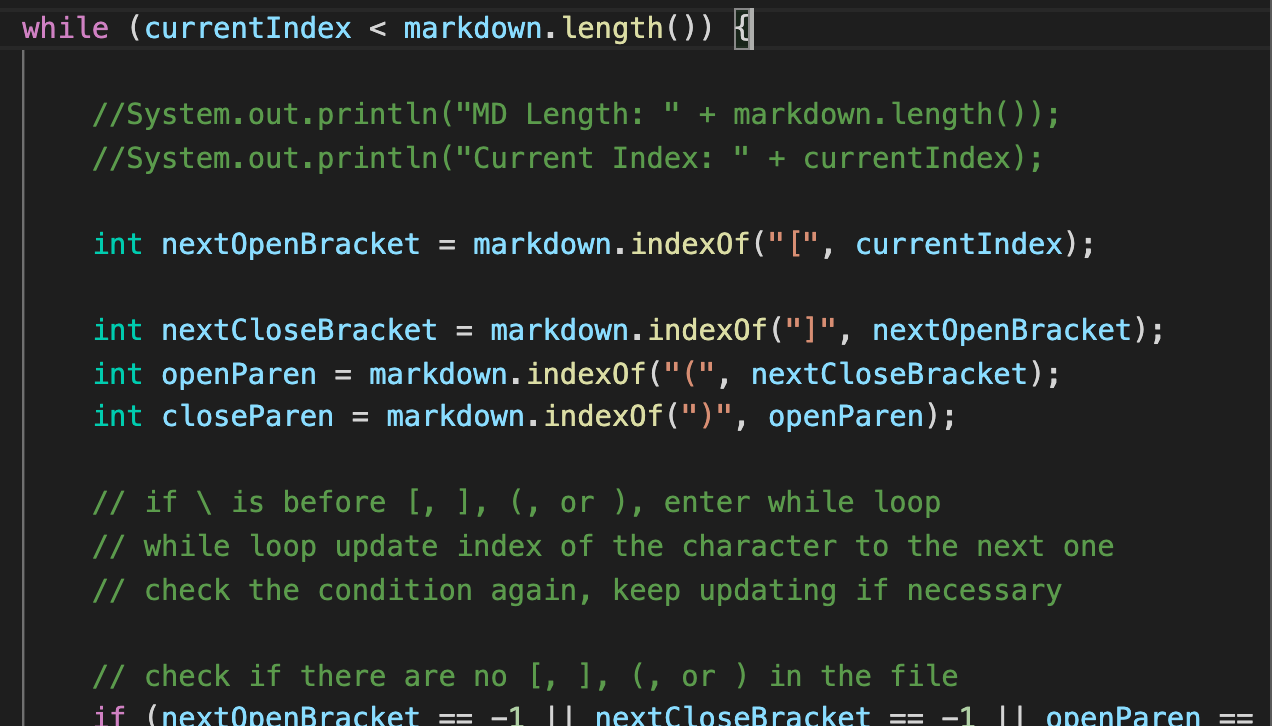
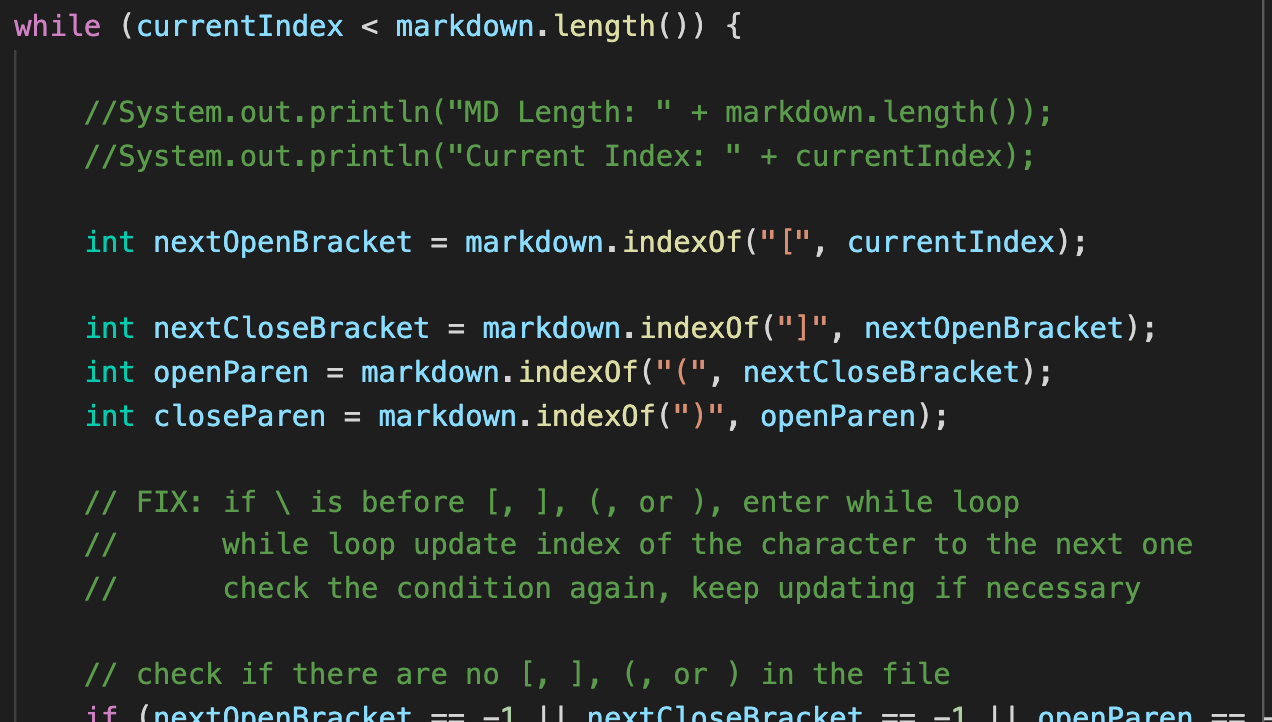
updated

diff --git a/lab-report-5-week-10.md b/lab-report-5-week-10.md
@@ -39,5 +39,7 @@
         - The `\` "could display a literal character that would otherwise be used to format text in Markdown." Thus, `\(` and `\)` in this nested parentheses in the link actually means to display `(` or `)`, but my implementation does not consider this situation, it just simply get the indices of `(` and `)` to get the link. 
     - The Fix: 
         - In order to fix this bug, I should add a `while` loop with condition checking whether the character right before the `(` or `)` is the backslash `\` which could escape characters. If the condition is true, the body of the `while` loop then updates the index of `(` or `)` to the next one. The `while` loop would make sure that the result index of `(` or `)` I get would have no `\` right before it. 
+        - Besides adding a while loop, I should also consider the `\` situation when add the link to the `toReturn` ArrayList since the link might be different than the content within `()` in the `.md` file. 
         - The code that should be fixed is commented shown below 
-        ![code2](Image/code2.png)
+        ![code2](Image/code2.png) and 
+        ![code2.1](Image/code2.1.png)
